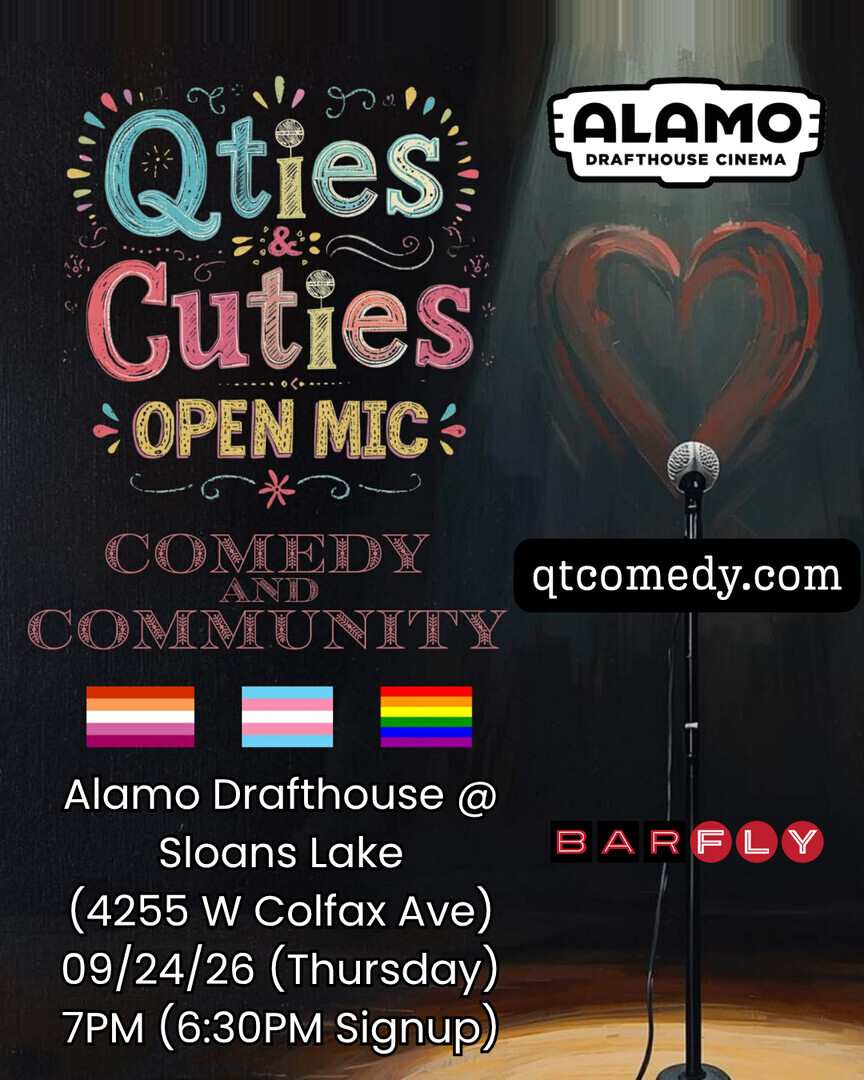
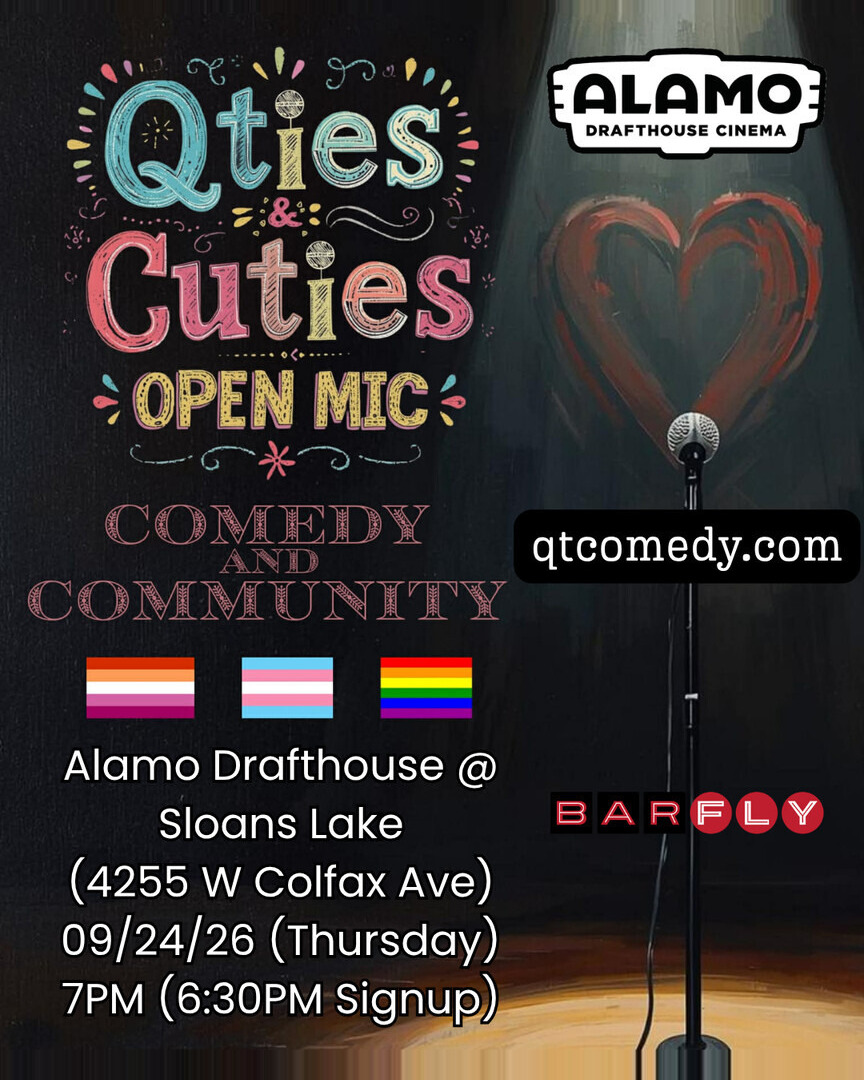
feat(scripts): procedural flyer centering
Add scripts/center-flyer.sh: measure per-row detail (mean absolute
horizontal gradient) to find the content block, then shift it so
whitespace is equal above and below, recreating padding by smearing
the poster's own edge row. Re-center the Alamo flyer with it
(84/26px -> 55/55px). Idempotent; --measure previews without writing.

diff --git a/README.md b/README.md
@@ -100,7 +100,15 @@ To show a flyer on a card, drop the image file (9:16 portrait works best) into t
 }
 ```
 
-`image` is optional; `imageAlt` is strongly recommended (it falls back to `"<title> event flyer"`). Visitors click the flyer to view the full image in a lightbox.
+`image` is optional; `imageAlt` is strongly recommended (it falls back to `"<title> event flyer"`).
+
+Posters often come with uneven built-in borders (e.g. an empty floor strip at the bottom). Re-center the artwork procedurally with:
+
+```sh
+scripts/center-flyer.sh images/my-show-flyer.png   # add --measure to preview
+```
+
+It requires ImageMagick and shifts the content so whitespace is equal top and bottom, recreating any padding from the poster's own edge pixels.
 
 Example event:
 
